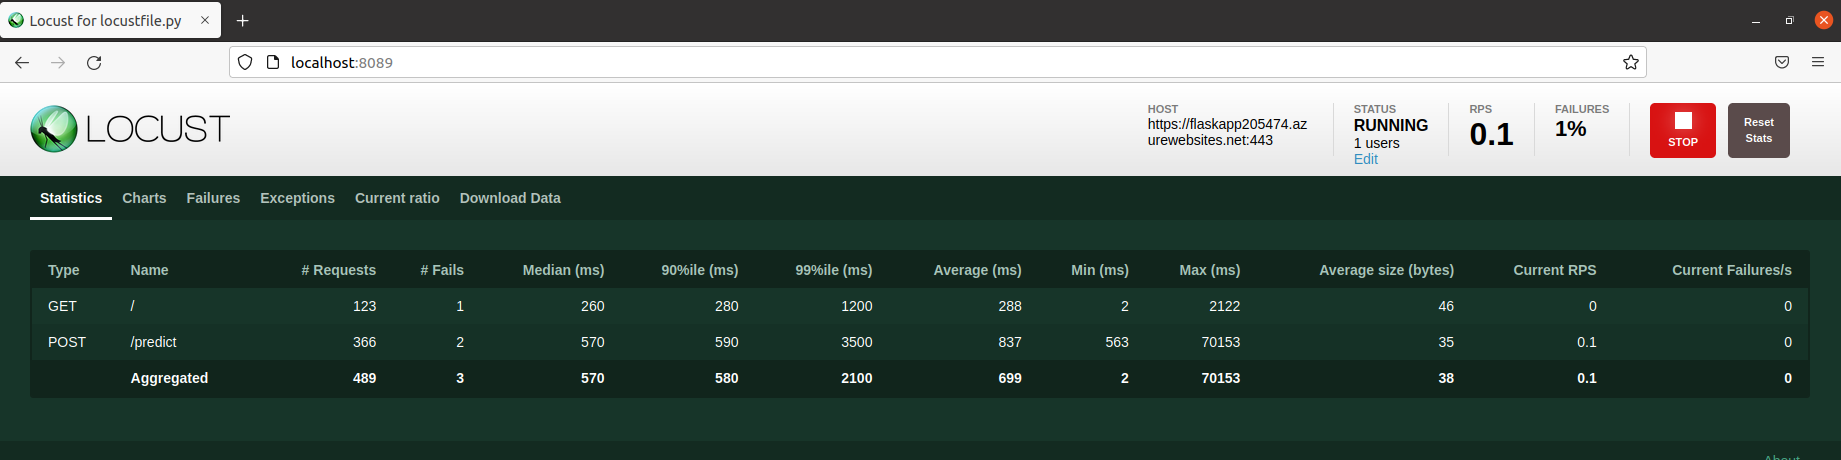
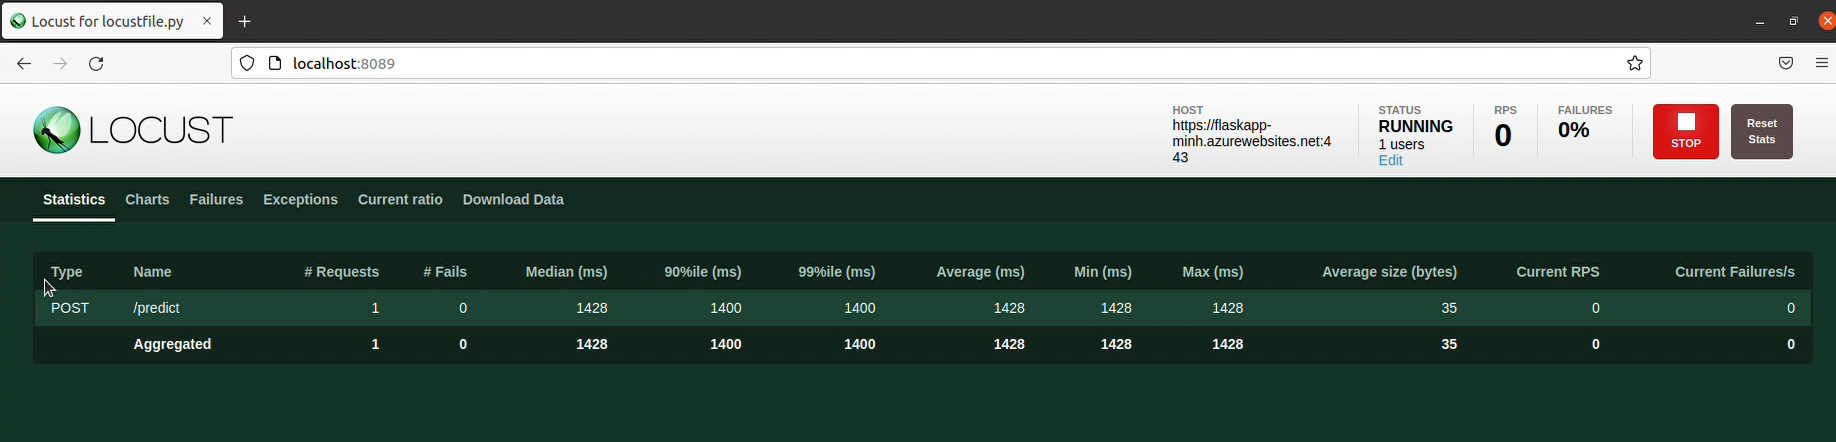
update

diff --git a/locustfile.py b/locustfile.py
@@ -1,0 +1,33 @@
+import random
+from locust import HttpUser, task, between
+
+
+class QuickstartUser(HttpUser):
+    wait_time = between(5, 10)
+
+    @task
+    def index(self):
+        self.client.get("/")
+
+    @task(3)
+    def checkPredict(self):
+        self.client.post("/predict", json={
+            "CHAS": {
+                "0": 0
+            },
+            "RM": {
+                "0": 6.575
+            },
+            "TAX": {
+                "0": 296.0
+            },
+            "PTRATIO": {
+                "0": 15.3
+            },
+            "B": {
+                "0": 396.9
+            },
+            "LSTAT": {
+                "0": 4.98
+            }
+        })

diff --git a/README.md b/README.md
@@ -83,10 +83,23 @@ az webapp up --name <Your_unique_app_name> --resource-group Azuredevops --runtim
 ```
 **Perform Prediction:**
 
-Update the make_predict_azure_app.sh file to match the deployed URL:
+Update the make_predict_azure_app.sh file to match the deployed URL
+
+Successful prediction from deployed flask app in Azure Cloud Shell. 
+The output should look similar to this:
+```bash
+odl_user [ ~/Azure-project2 ]$ ./make_predict_azure_app.sh 
+Port: 443
+{"prediction":[20.35373177134412]}
+
+![Output of streamed log files from deployed application](https://github.com/MinTruong/Azure-project2/blob/master/evidence/Prediction_and_Log.png)
+
 ```
-Update the make_predict_azure_app.sh file to match the deployed URL:
+Next step we run **`locustfile.py`** on localhost to tracking response of method **POST** prediction (remember install locust)
 ```
+  locust -f locustfile.py
+```
+![locust](https://github.com/MinTruong/Azure-project2/blob/master/evidence/locust.png)
 
 After that you continue follow part III and IV. in part V, Update azure-pipelines.yml file like that:
 ```
@@ -108,7 +121,7 @@ variables:
   webAppName: 'flaskapp-minh'
 
   # Environment name
-  environmentName: 'Flask-ML-Deploy'
+  environmentName: 'Flask'
 
   # Project root folder. Point to the folder containing manage.py file.
   projectRoot: $(System.DefaultWorkingDirectory)
@@ -163,17 +176,14 @@ stages:
               appName: $(webAppName)
               package: $(Pipeline.Workspace)/drop/$(Build.BuildId).zip
 ```
-
-### **Successful prediction from deployed flask app in Azure Cloud Shell.** 
-The output should look similar to this:
-```bash
-odl_user [ ~/Azure-project2 ]$ ./make_predict_azure_app.sh 
-Port: 443
-{"prediction":[20.35373177134412]}
-```
+After we click on Run 
 
 
-![Output of streamed log files from deployed application](https://github.com/MinTruong/Azure-project2/blob/master/evidence/Prediction_and_Log.png)
+![modify azure-pipelines.yml ](https://github.com/MinTruong/Azure-project2/blob/master/evidence/pipeline_1.png)
+
+
+![Deploy](https://github.com/MinTruong/Azure-project2/blob/master/evidence/pipeline_1.png)
+
 
 
 > 
